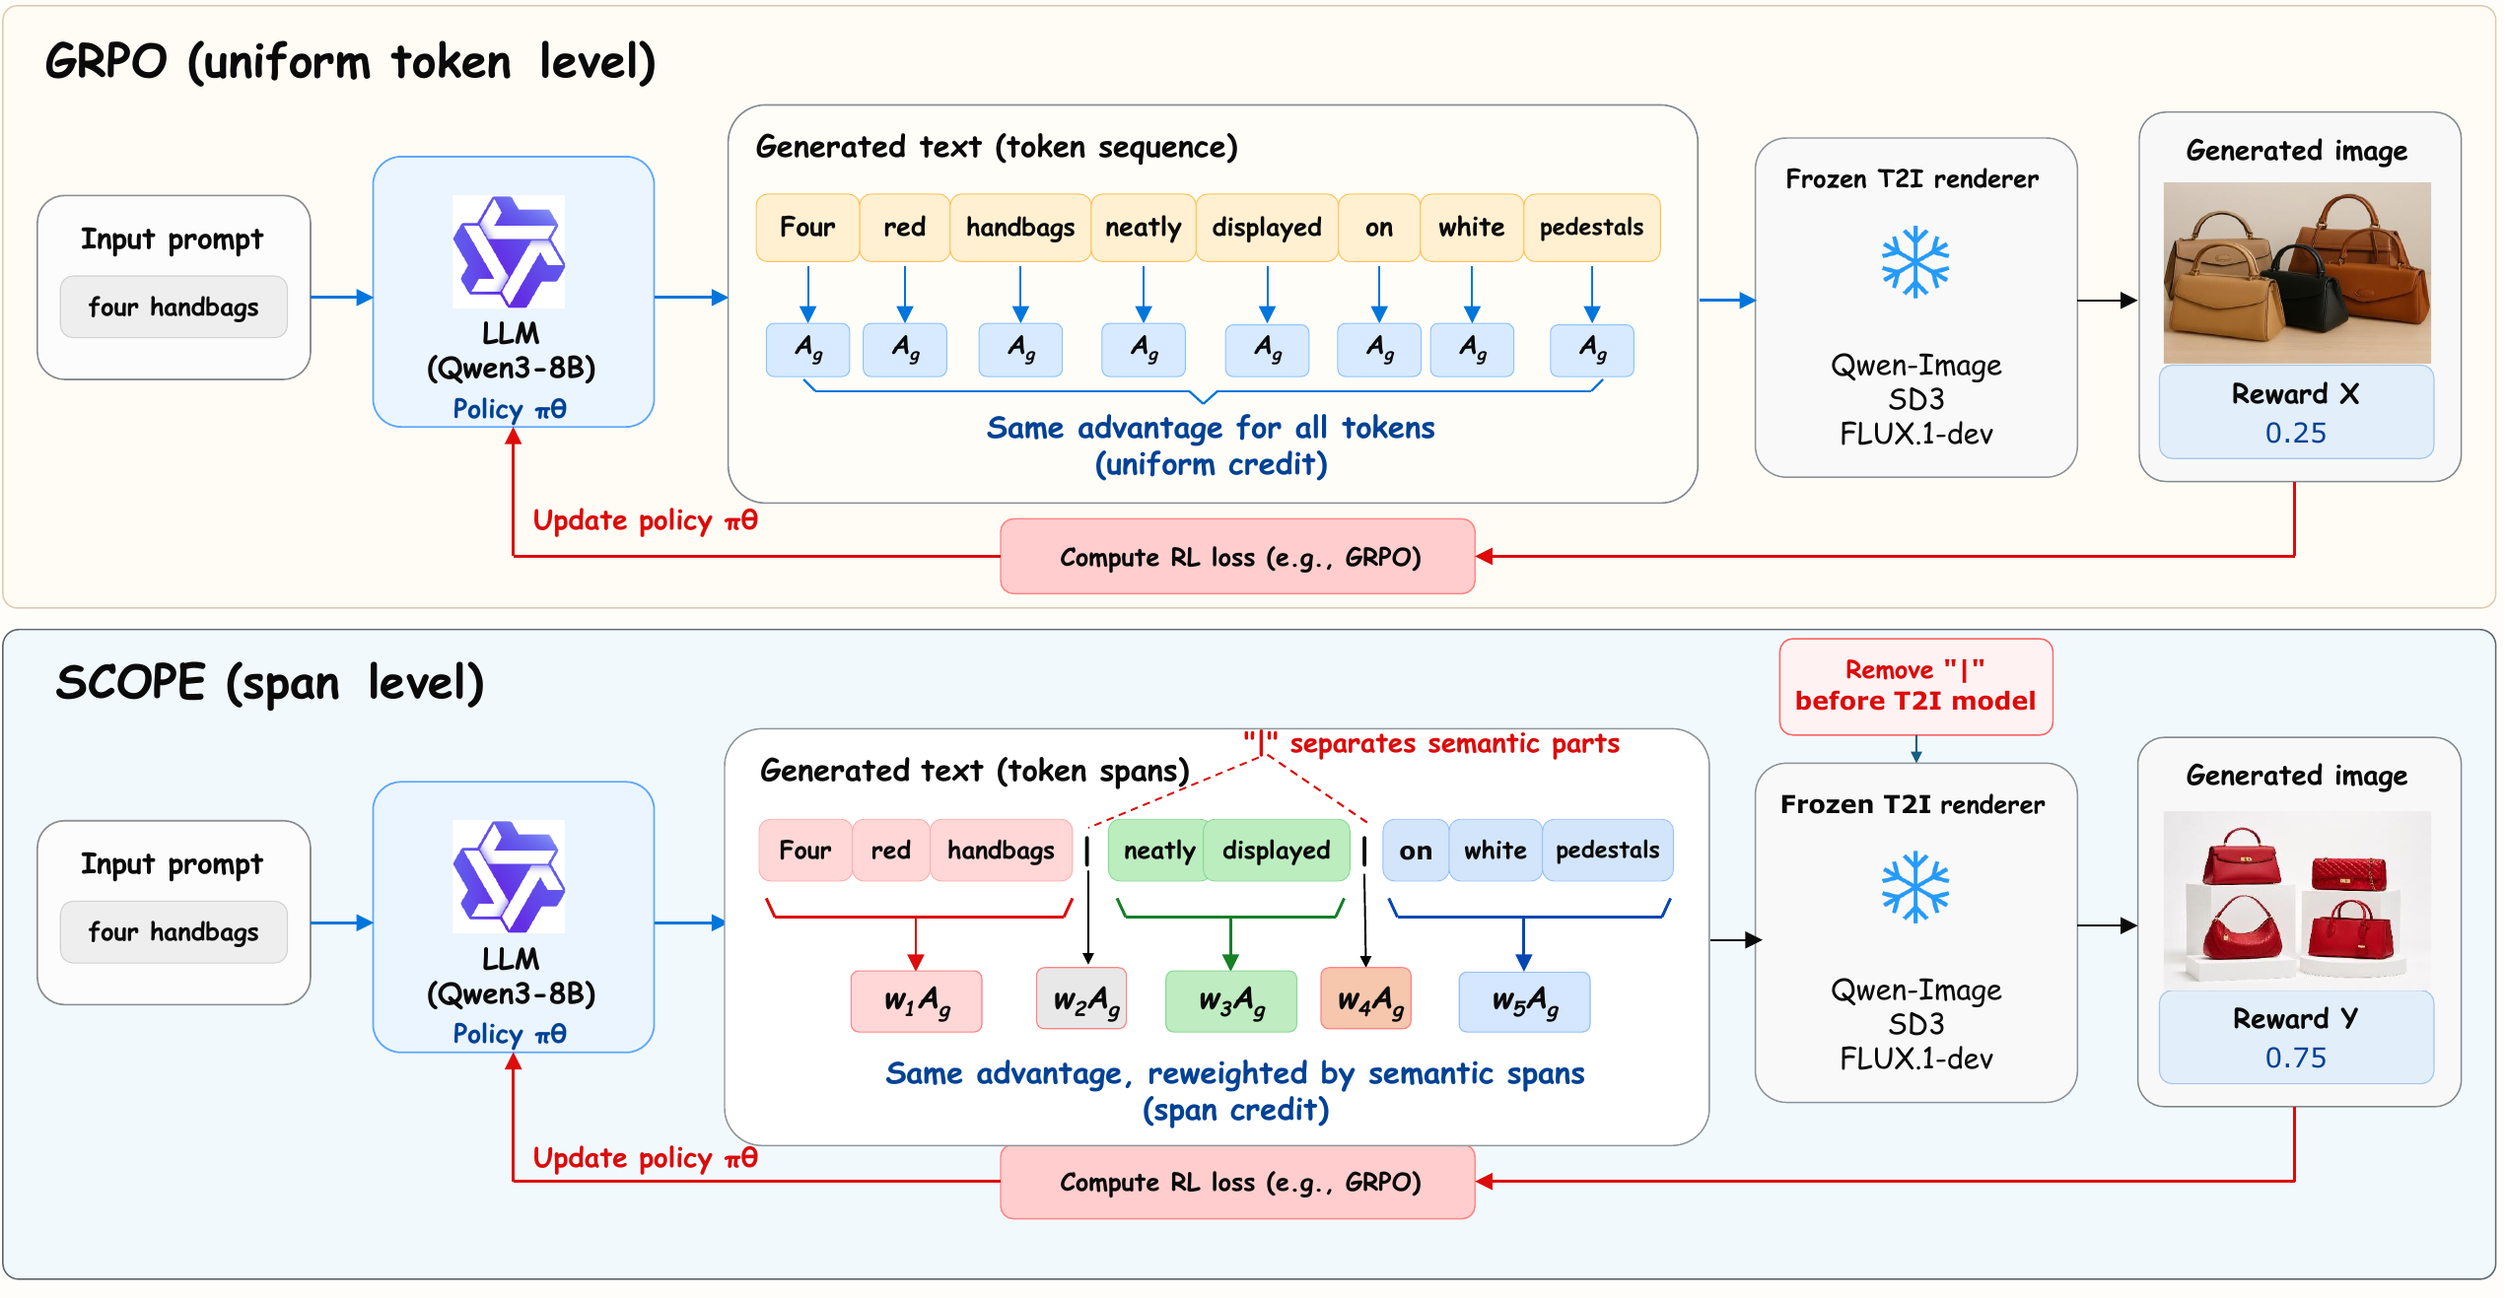
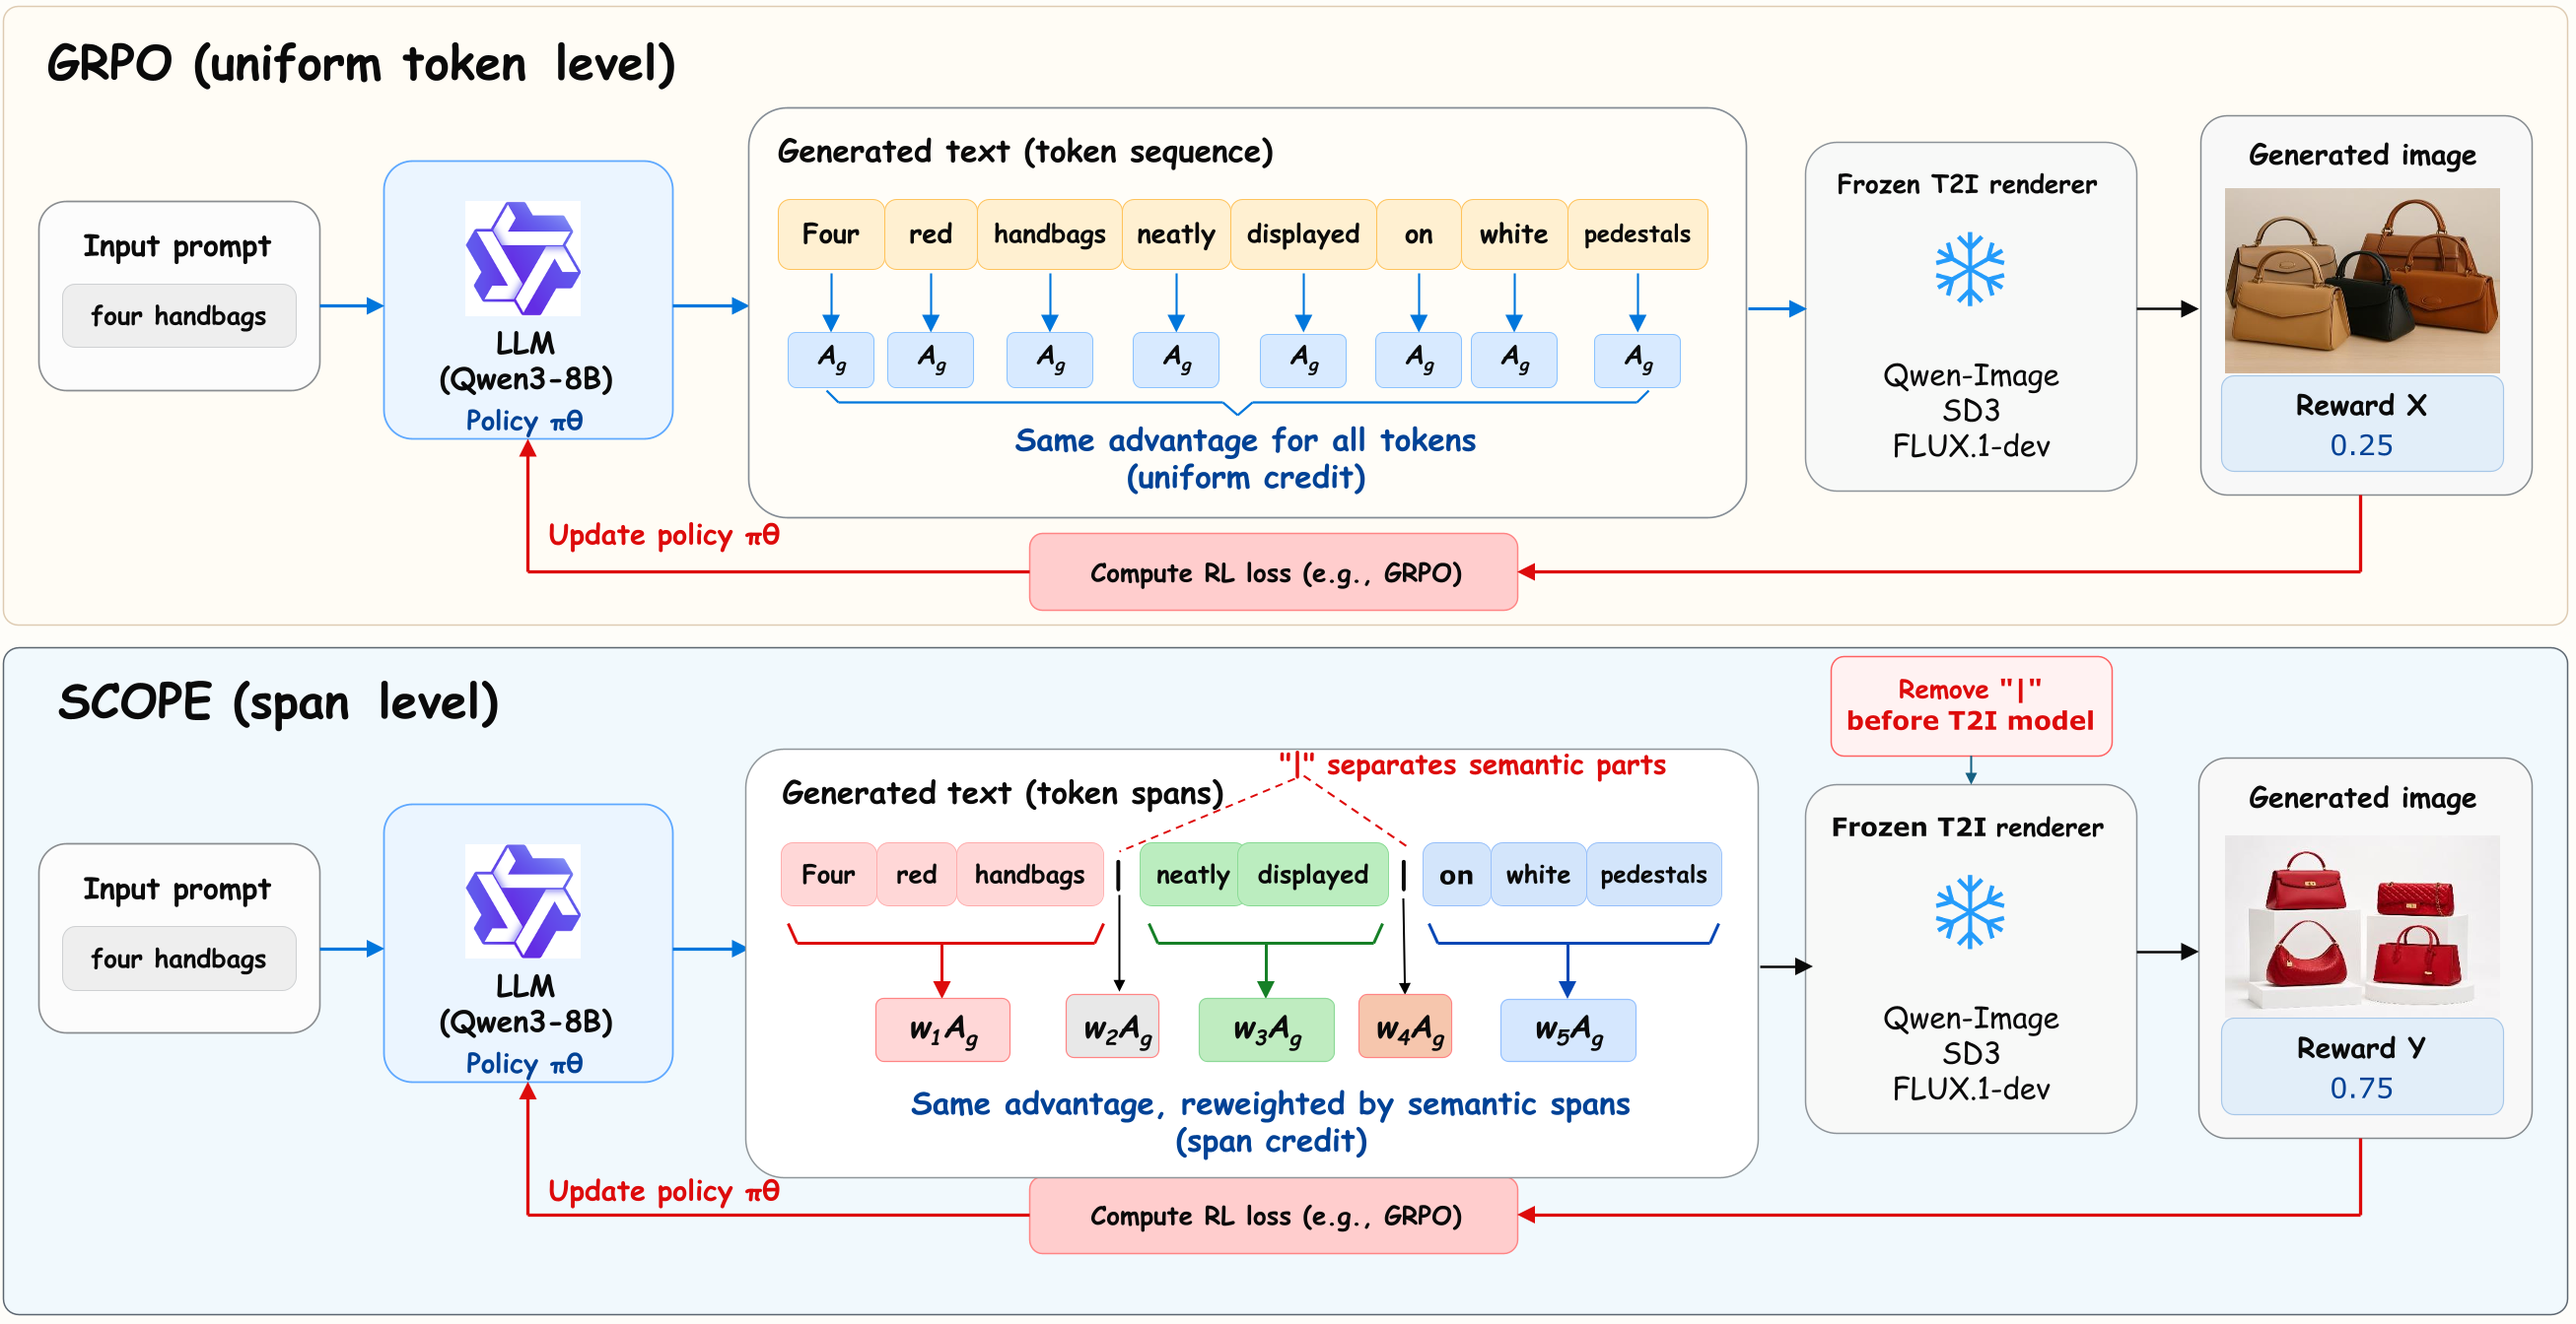
Update the README and higher-resolution figures.
Open the training-step and qualitative sections by default, add the citation, and replace assets/motivation.png and assets/pipeline.png.

diff --git a/README.md b/README.md
@@ -17,7 +17,8 @@
   <a href="#installation">Installation</a> /
   <a href="#quick-start">Quick Start</a> /
   <a href="#configuration">Configuration</a> /
-  <a href="#repository-structure">Repository Structure</a>
+  <a href="#repository-structure">Repository Structure</a> /
+  <a href="#citation">Citation</a>
 </p>
 
 Reinforcement learning lets a language model improve text-to-image generation by rewriting prompts for a frozen image generator. Existing methods usually apply one image-level signal to every subword token, even though objects, counts, attributes, and relations form coherent spans. SCOPE is a GRPO objective that follows this structure.
@@ -39,7 +40,7 @@ Reinforcement learning lets a language model improve text-to-image generation by
 | Span credit | Pool `log pi_theta - log pi_old` inside each phrase, clip the span coefficient to `[0.8, 1.2]`, and normalize phrase-token weights to mean 1. Tags and the vertical bar keep weight 1. |
 | Lagged policy | `pi_old` is a frozen copy from the previous optimizer step. On step 1 it matches `pi_theta`, so every span weight is 1. |
 
-<details>
+<details open>
 <summary><b>How a training step works</b></summary>
 
 <p align="center">
@@ -59,7 +60,7 @@ The default learning rate is `1e-6` and the maximum completion length is 512 tok
 
 </details>
 
-<details>
+<details open>
 <summary><b>Qualitative results</b></summary>
 
 Columns, from left to right: original prompt, GRPO, gpt-image 2, the SCOPE rewrite, and the SCOPE image. The dashed frame marks the rewrite and the SCOPE output.
@@ -224,3 +225,20 @@ SCOPE/
 ## 5. Acknowledgements
 
 Training uses [Qwen3-8B](https://huggingface.co/Qwen/Qwen3-8B), [Qwen-Image](https://huggingface.co/Qwen/Qwen-Image), [TRL](https://github.com/huggingface/trl) 0.24 GRPO, [GenEval](https://github.com/djghosh13/geneval), and [T2I-CompBench](https://github.com/Karine-Huang/T2I-CompBench). Upstream benchmark code under `eval/` keeps the licenses shipped with those projects.
+
+<a id="citation"></a>
+## 6. Citation
+
+If you use this repository, please cite the corresponding paper:
+
+```bibtex
+@misc{jiao2026scopesemanticboundedcredit,
+  title={SCOPE: Semantic Bounded Credit Optimization for Prompt Engineering in Text-to-image Generation},
+  author={Yufei Jiao and Jinfa Huang and Zeyue Xue and Tianyu Xie and Yuexiao Ma and Rongrong Ji and Xiawu Zheng and Jiebo Luo},
+  year={2026},
+  eprint={2610.22264},
+  archivePrefix={arXiv},
+  primaryClass={cs.CV},
+  url={https://arxiv.org/abs/2610.22264},
+}
+```
